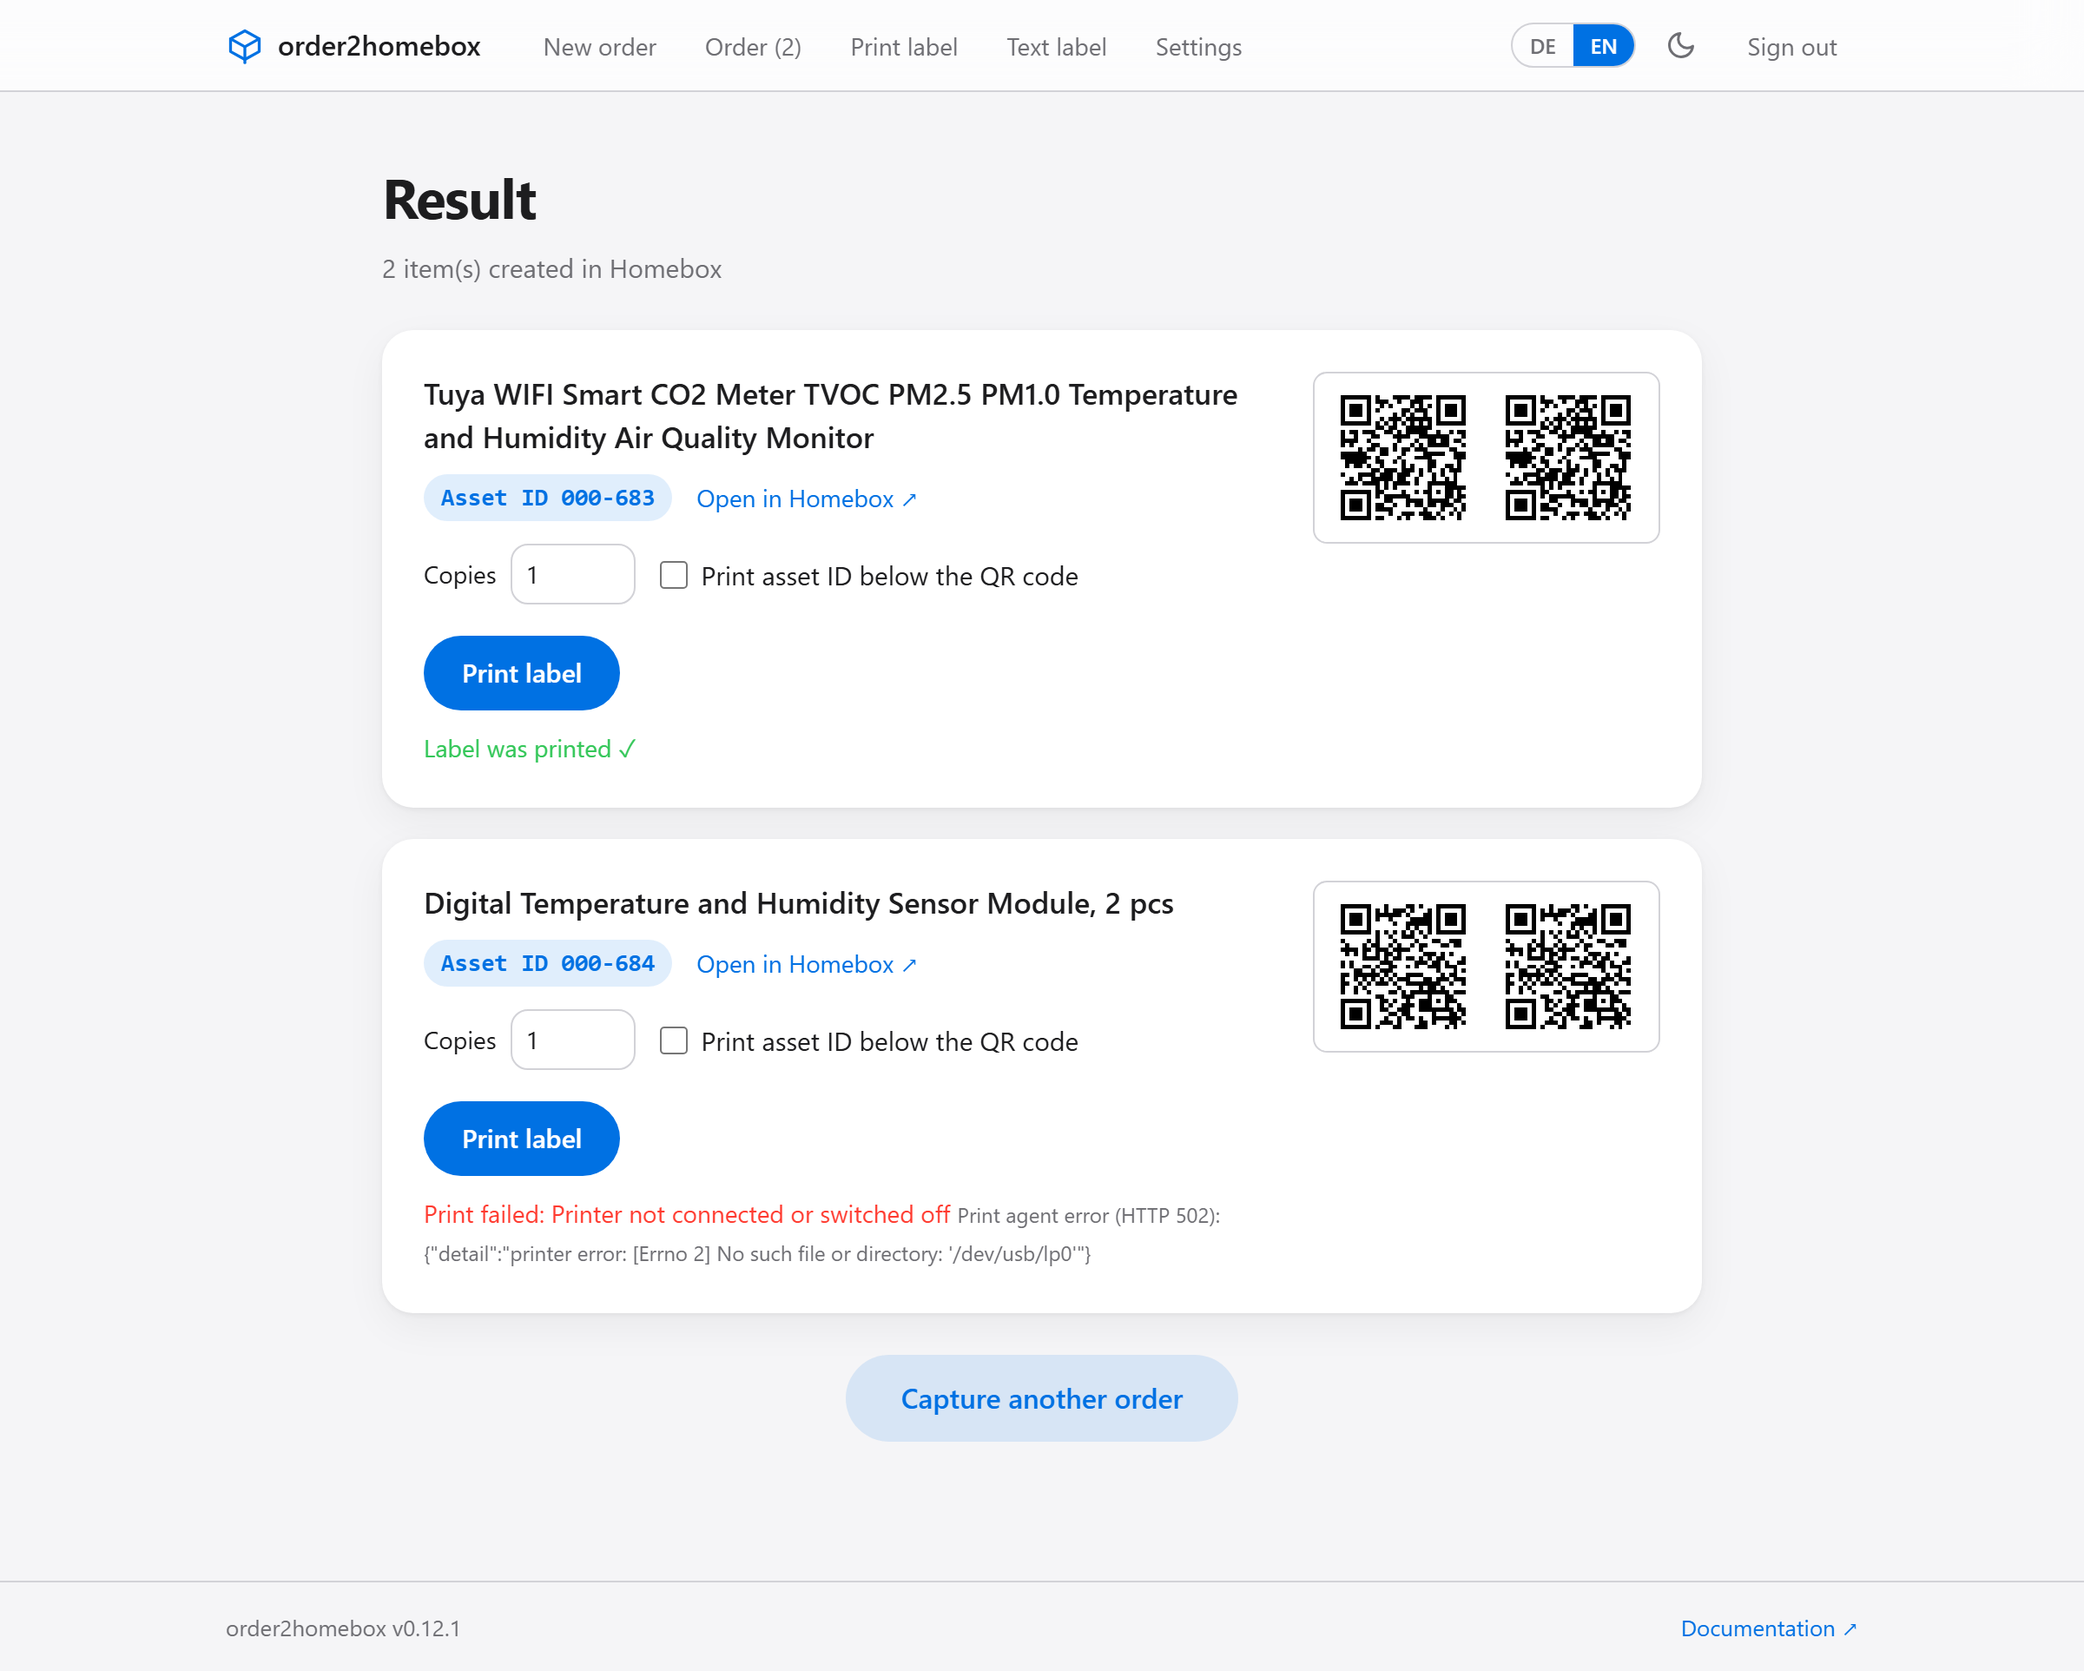
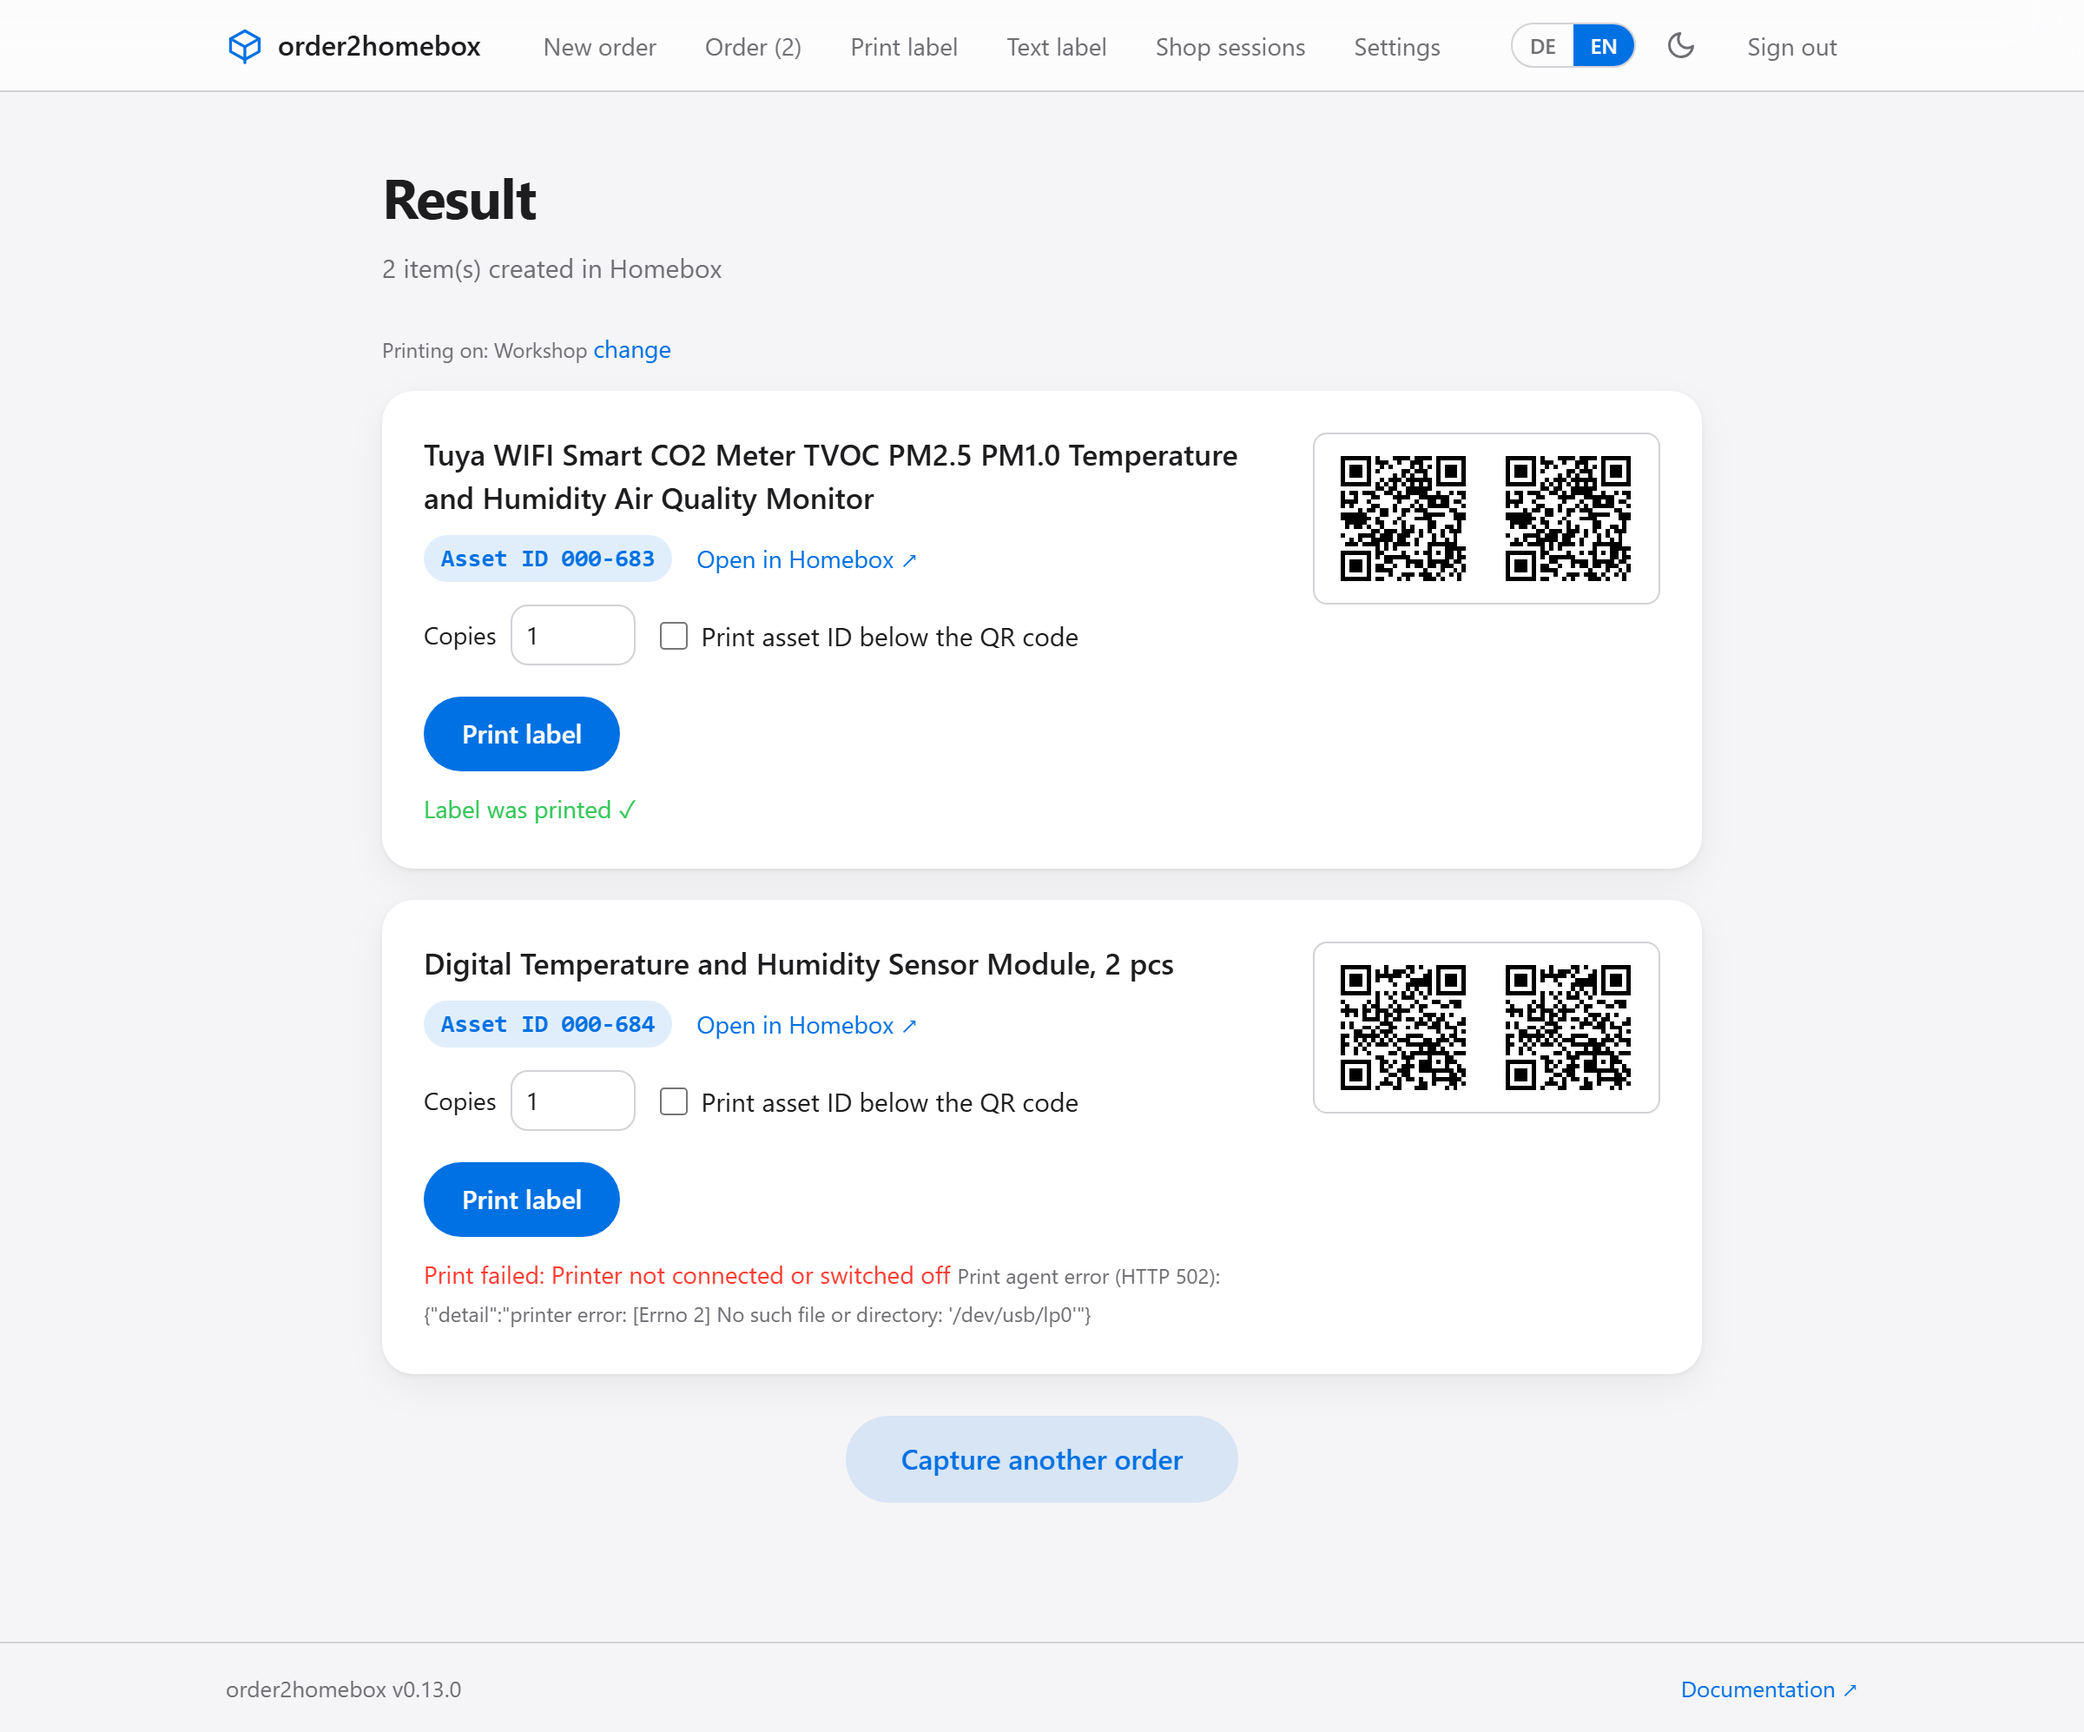
Name the 0.13.0 changes in the CHANGELOG and refresh the screenshots
All six shots come from the demo server with two printers configured, so the
settings page shows what a choice between them looks like and the pages that
print carry their "Printing on:" line. The shop sessions get a shot of their
own now that they are a page of their own.

The line above "Create all items" was squeezed against the side of the button:
an action bar is a flex row, so it now takes the whole row above it.

Claude-Session: https://claude.ai/code/session_018xBemLnquwZc4gkA7rN642

diff --git a/server/app/static/app.css b/server/app/static/app.css
@@ -261,8 +261,12 @@ textarea.autogrow { max-height: 11em; overflow-y: auto; }
 .printer-edit > summary { cursor: pointer; font-size: 14px; color: var(--text-secondary); }
 .printer-edit[open] > summary { margin-bottom: 14px; }
 .printer-edit .action-right { gap: 10px; }
-/* Says which Pi the button next to it prints on; only there with more than one. */
+/* Says which Pi the button below it prints on; only there with more than one.
+   In an action bar it takes the whole row, or it ends up squeezed against the
+   side of the button it belongs above. */
 .print-target { margin-bottom: 14px; }
+.action-bar { flex-wrap: wrap; }
+.action-bar .print-target { flex-basis: 100%; text-align: center; margin-bottom: 12px; }
 
 /* ---- items / results ---- */
 .item-head { display: flex; align-items: baseline; justify-content: space-between; gap: 12px; margin-bottom: 14px; }

diff --git a/README.md b/README.md
@@ -81,9 +81,14 @@ one-click chips.
 The settings page shows the Homebox connection and the printers with their
 status — one card per Pi, each with its own test print and shutdown button.
 *Use this one* decides where this computer prints; another computer keeps its
-own choice. The shop sessions have a page of their own next to it: they are
-what an order fetch runs on and expire every few weeks, while the settings are
-set up once.
+own choice.
+
+![Shop sessions](docs/screenshot-cookies.png)
+
+The shop sessions have a page of their own, because they are the one thing here
+that does not stay set: a session expires every few weeks and is pasted in
+again, usually right after a fetch failed on it — and the message about that
+links straight to this page.
 
 ## Architecture
 

diff --git a/CHANGELOG.md b/CHANGELOG.md
@@ -6,7 +6,7 @@ bug-fix or maintenance release a patch bump.
 
 Each version links to its GitHub release, which carries the full notes.
 
-## [Unreleased]
+## [0.13.0] — 2026-08-16
 
 ### Changed
 
@@ -471,6 +471,7 @@ orders.
 - **Deployment** — Proxmox host script that creates the LXC, in-container
   installer and `update.sh`, plus `install-pi.sh` / `update-pi.sh` for the Pi.
 
+[0.13.0]: https://github.com/skyhell/order2homebox/releases/tag/v0.13.0
 [0.12.1]: https://github.com/skyhell/order2homebox/releases/tag/v0.12.1
 [0.12.0]: https://github.com/skyhell/order2homebox/releases/tag/v0.12.0
 [0.11.0]: https://github.com/skyhell/order2homebox/releases/tag/v0.11.0
